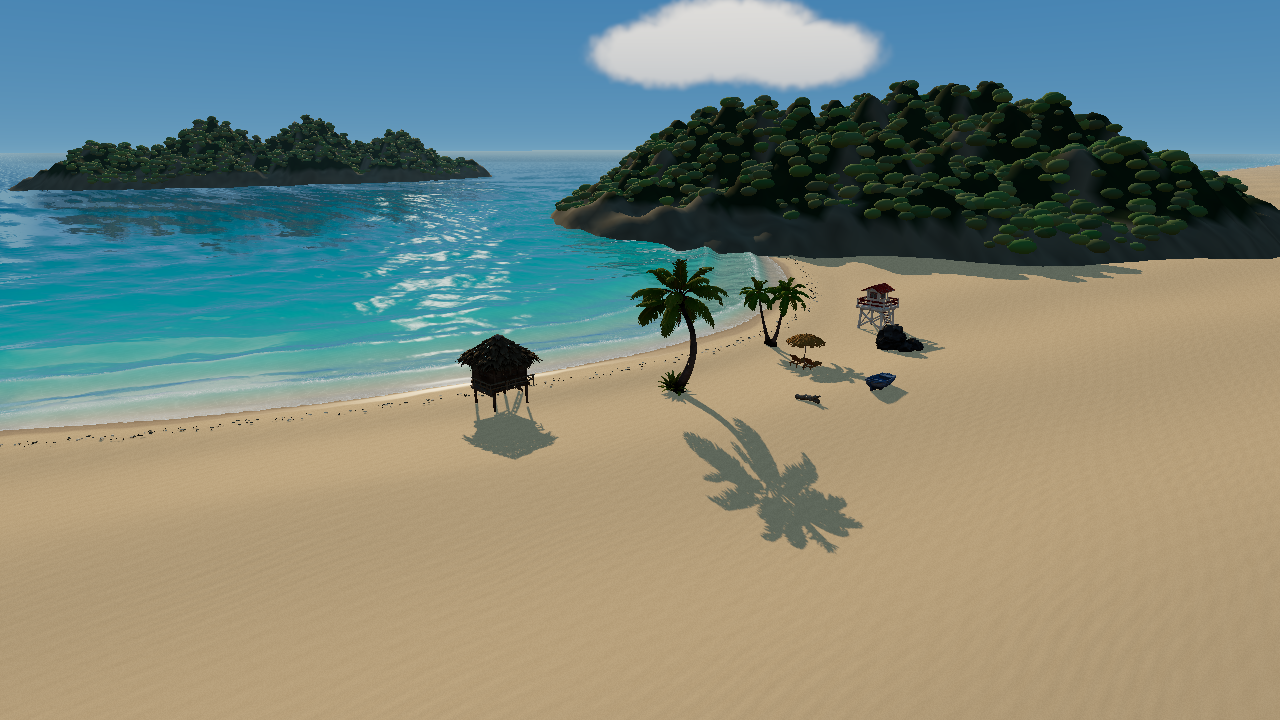
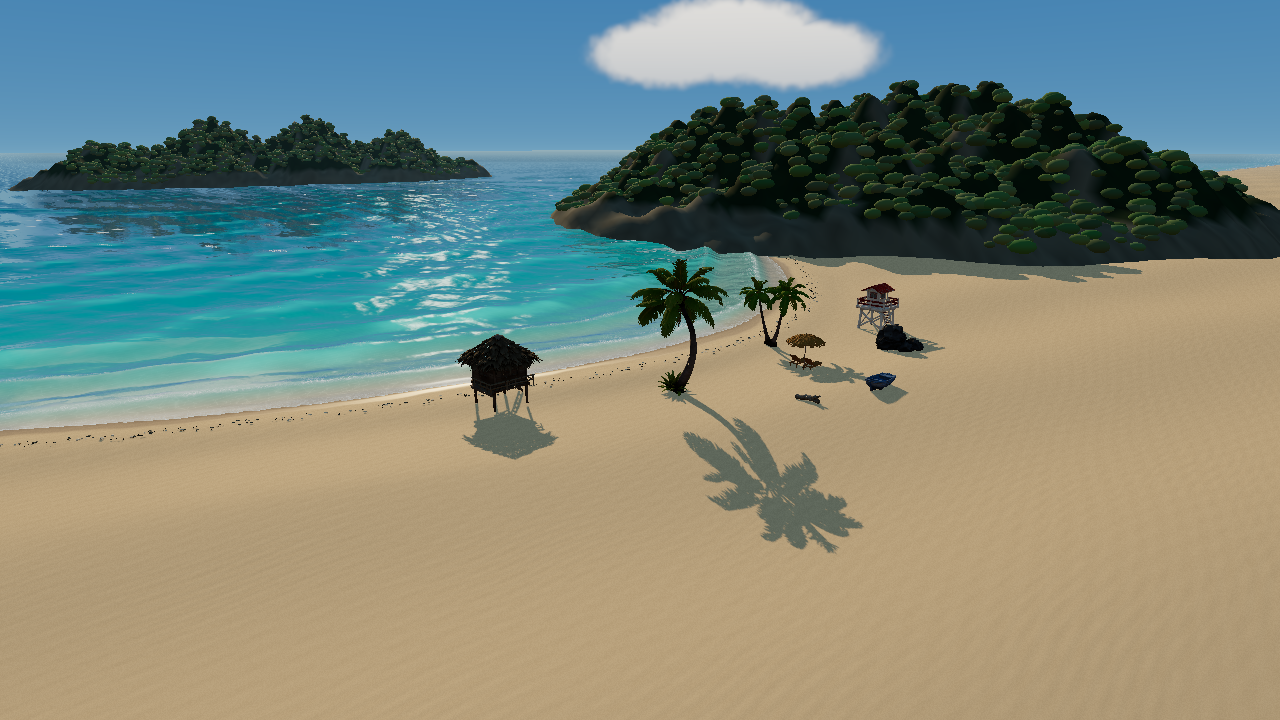
海浪細節：浪體逆光透出綠藍色、浪峰擠尖處分塊冒白浪（逐像素重算 Gerstner 波）；小船尾流在水面擴散成 V 形小波紋；槳葉水霧調淡；重拍三組固定鏡頭與遊戲回歸截圖
Claude-Session: https://claude.ai/code/session_01USRpqyJ3nNu4mbR3gC6di4

diff --git a/src/water.js b/src/water.js
@@ -81,6 +81,24 @@ void waterSurface(vec2 p,float t,out vec3 displaced,out vec3 waveNormal){
 }
 `;
 
+// Per-pixel wave state for shading: the offshore mesh rows are 10-16 m apart, so crests, whitecaps and the light
+// through them are evaluated from the same four Gerstner waves here, not interpolated from the vertices.
+// x: height of the swell (open water only), y: the Jacobian of the horizontal displacement (below 1 where the
+// surface is squeezed together at a crest; whitecaps form where it is lowest).
+const crestGLSL = `
+vec2 swellState(vec2 p,float t){
+ float coast=shore(p.x)-p.y;
+ float s=smoothstep(0.,16.,coast)*(.68+.32*smoothstep(15.,90.,coast))*(1.-smoothstep(100.,550.,coast))*(1.-smoothstep(140.,500.,abs(p.x)));
+ vec2 D[4];D[0]=normalize(vec2(.22,1.));D[1]=normalize(vec2(-.38,1.));D[2]=normalize(vec2(.72,.69));D[3]=normalize(vec2(-.81,.59));
+ vec4 A=vec4(.29,.16,.085,.045),L=vec4(19.,11.3,6.7,3.8),P=vec4(.5,2.4,4.1,1.1);
+ float h=0.,xx=0.,zz=0.,xz=0.;
+ for(int i=0;i<4;i++){float k=6.283185/L[i],f=k*dot(D[i],p)-sqrt(9.81*k)*t+P[i],sn=sin(f),qa=.62*A[i]*k*sn;
+  h+=A[i]*sn;xx-=qa*D[i].x*D[i].x;zz-=qa*D[i].y*D[i].y;xz-=qa*D[i].x*D[i].y;}
+ return vec2(h*s,mix(1.,(1.+xx)*(1.+zz)-xz*xz,s));
+}
+`;
+
+export const WAKE_RINGS=24;
 const grid={xs:null,ds:null};
 function waterGeometry() {
  // Preserve the terrain entirely. Only the water mesh follows the coast, with
@@ -107,6 +125,10 @@ export function createWater(sun) {
  const water=new Water(waterGeometry(),{textureWidth:512,textureHeight:512,sunDirection:sun,sunColor:0xfff4da,waterColor:0x087f9c,distortionScale:.55,fog:true});
  water.rotation.x=-Math.PI/2;water.frustumCulled=false;
  water.name='lagoon-water';
+ // Ripples behind the game's rowboat (set by src/game/wake.js): each entry is a point the stern passed (x, z, time,
+ // boat speed; 0 switches it off). A ring of small waves spreads from each; together they draw the V behind the boat (a kinematic wake:
+ // circles emitted along the path). Shading only: the surface itself does not move.
+ water.material.uniforms.wakeRings={value:Array.from({length:WAKE_RINGS},()=>new THREE.Vector4())};
  water.material.vertexShader=`
  uniform mat4 textureMatrix;uniform float time;
  varying vec4 mirrorCoord;varying vec4 worldPosition;
@@ -134,11 +156,13 @@ export function createWater(sun) {
  }`;
  water.material.fragmentShader=`
  uniform mat4 textureMatrix;uniform sampler2D mirrorSampler;uniform float time;uniform vec3 eye;uniform vec3 sunDirection;uniform vec3 sunColor;
+ uniform vec4 wakeRings[${WAKE_RINGS}];
  varying vec4 mirrorCoord;varying vec4 worldPosition;varying vec3 vWaveNormal;varying vec2 vWaterRest;
  #include <common>
  #include <fog_pars_fragment>
  #include <logdepthbuf_pars_fragment>
  ${coastalGLSL}
+ ${crestGLSL}
  vec2 fineSlope(vec2 p,float distanceToEye){
   mat2 r=mat2(.80,-.60,.60,.80),r2=mat2(.36,.933,-.933,.36);
   vec2 warp=vec2(waterNoise(p*.071+time*.025),waterNoise(p*.093-time*.019));
@@ -165,6 +189,13 @@ export function createWater(sun) {
   if(d>front+irregular)discard;
   vec3 toEye=eye-worldPosition.xyz;float distanceToEye=length(toEye);vec3 V=toEye/distanceToEye;
   vec2 small=fineSlope(worldPosition.xz,distanceToEye)*mix(.25,1.,smoothstep(-1.,6.,coast));
+  // Wake ripples: crests about 0.9 m apart; each ring runs out at a third of the boat's speed, so the rings
+  // together keep the Kelvin wake's ~19.5° V at any speed. Weaker as they spread and age.
+  vec2 rip=vec2(0.);
+  for(int i=0;i<${WAKE_RINGS};i++){vec4 r=wakeRings[i];if(r.w<=.3)continue;vec2 q=worldPosition.xz-r.xy;float dist=length(q),age=time-r.z;
+   float x=dist-min(.34*r.w,3.)*age;if(age<0.||abs(x)>2.||dist<.01)continue;
+   float env=clamp((r.w-.3)/2.5,0.,1.)*exp(-x*x*1.4)*exp(-age*.35)/(1.+.12*dist);rip+=q/dist*cos(x*7.)*.55*env;}
+  small+=rip;
   vec3 N=normalize(vWaveNormal+vec3(-small.x,0.,-small.y));
   N=mix(N,normalize(vec3(-small.x,1.,-small.y)),smoothstep(-.1,1.,d));
   float NoV=max(dot(N,V),.001),fresnel=.0204+.9796*pow(1.-NoV,5.);
@@ -199,7 +230,16 @@ export function createWater(sun) {
   vec3 sea=bottom*transmission+waterTint*(1.-transmission);
   float crestTint=smoothstep(.03,.32,worldPosition.y)*(1.-smoothstep(10.,35.,coast));
   sea+=vec3(.005,.038,.027)*crestTint*max(dot(V,-sunDirection),0.);
+  // Light through the swell: a wave's upper part is thin enough for sunlight to come through it green-blue, most
+  // when looking towards the sun (backlit crests), a little from any side.
+  vec2 swell=swellState(p,time);
+  float thin=smoothstep(-.12,.35,swell.x)*smoothstep(0.,6.,coast);
+  float backlit=pow(max(dot(normalize(vec3(-V.x,0.,-V.z)),normalize(vec3(sunDirection.x,0.,sunDirection.z))),0.),3.);
+  sea+=vec3(.03,.3,.23)*thin*thin*(.3+.7*backlit)*(1.-fresnel);
   vec3 color=mix(sea,reflected,clamp(fresnel,0.,.97));
+  // Seen from above the water shows mostly its own colour, so a ripple's slope would hardly show: the faces
+  // tilted towards the eye catch more sky and read lighter, the others darker.
+  color+=vec3(.05,.09,.1)*clamp(dot(rip,normalize(-V.xz+1e-4))*2.5,-1.,1.);
   vec3 H=normalize(V+sunDirection);
   float glitter=pow(max(dot(N,H),0.),420.);
   color+=sunColor*glitter*.85;
@@ -218,6 +258,15 @@ export function createWater(sun) {
   float leading=exp(-pow(edgeDistance/(.08+.10*waterNoise(p*5.)),2.));
   float sheet=(1.-smoothstep(.1,1.9,edgeDistance))*smoothstep(-1.3,.2,d);
   foam=max(foam,leading*(.18+.68*lace)+sheet*lace*.42);
+  // Whitecaps: where the swell's crest is squeezed tightest, in patches (not every crest breaks), with foam left
+  // behind to thin out for a moment (the same squeeze a little earlier, weaker).
+  // Patches are stretched along the crests (the main swell runs towards +z), so a breaking crest reads as a streak.
+  float squeeze=smoothstep(.9,.82,swell.y),earlier=smoothstep(.89,.82,swellState(p,time-.7).y);
+  float patches=smoothstep(.38,.65,waterNoise(vec2(p.x*.05,p.y*.16)+vec2(time*.04,-time*.03)));
+  float capLace=foamLace(p*.8+vec2(0.,time*.15)),far=smoothstep(60.,220.,distanceToEye);
+  float detail=mix(capLace,.5,far);
+  float whitecap=patches*(smoothstep(.15,.5,squeeze*detail)+earlier*smoothstep(.35,.75,detail)*.4)*smoothstep(6.,20.,coast);
+  foam=max(foam,whitecap*.85);
   vec3 foamColor=vec3(.88,.96,.94)*(.80+.24*max(dot(N,sunDirection),0.));
   color=mix(color,foamColor,clamp(foam,0.,.94));
   gl_FragColor=vec4(color,1.);

diff --git a/src/game/wake.js b/src/game/wake.js
@@ -1,6 +1,6 @@
 import * as T from 'three';
 import {groundHeight} from '../terrain.js';
-import {surfaceHeight} from '../water.js';
+import {surfaceHeight,WAKE_RINGS} from '../water.js';
 
 // Foam the rowboat leaves on the water: a wake behind the stern that widens, breaks up and fades, and a foam line
 // round the hull at the water line. The wake is built from stern samples taken while under way (world time, place,
@@ -82,6 +82,9 @@ export function createWake(scene){
    const ox=v.x+n.x*w,oz=v.z+n.z*w,j=RING+i;p[j*3]=ox;p[j*3+1]=surfaceHeight(ox,oz,t)+.02;p[j*3+2]=oz;uv[j*2]=1;uv[j*2+1]=0;f[j]=wet?fade*.6:0;});
   for(const k of ['position','uv','fade'])ring.geometry.attributes[k].needsUpdate=true;
  }
+ // The newest stern samples for the water shader's ripple rings (x, z, time, speed); the rest are switched off.
+ function rings(t,out){let k=0;for(let i=samples.length-1;i>=0&&k<WAKE_RINGS;i--){const s=samples[i];if(s.t>t+1e-6)continue;out[k++].set(s.x,s.z,s.t,s.speed);}
+  for(;k<out.length;k++)out[k].w=0;}
  function reset(){samples.length=0;head.t=-1e9;ring.visible=false;trail.geometry.setIndex([]);}
- return {root,trail,ring,record,update,setHull,hull,reset,RING,get samples(){return samples.length;}};
+ return {root,trail,ring,record,update,setHull,hull,rings,reset,RING,get samples(){return samples.length;}};
 }

diff --git a/src/game/splash.js b/src/game/splash.js
@@ -65,7 +65,7 @@ export function createSplash(scene){
     put(e.x+Math.cos(a)*spread0*h+vx*age,y,e.z+Math.sin(a)*spread0*h+vz*age,vx,vy,vz,(.014+.022*hash(i*5.3))*(.7+e.size),.7*Math.sqrt(fade));}
    // A bigger splash throws a little mist that drifts up and thins out.
    if(e.size>.2)for(let i=0;i<3;i++){const h=hash(i*9.1+e.seed),a=i*2.1+e.seed,k=Math.min(1,age/.6);if(k>=1)break;
-    put(e.x+Math.cos(a)*e.size*.6*k,e.y+.1+e.size*(.5+.4*h)*k,e.z+Math.sin(a)*e.size*.6*k,0,0,0,e.size*(.35+.7*k),.3*(1-k)*(1-k));}
+    put(e.x+Math.cos(a)*e.size*.6*k,e.y+.1+e.size*(.5+.4*h)*k,e.z+Math.sin(a)*e.size*.6*k,0,0,0,e.size*(.35+.7*k),.16*(1-k)*(1-k));}
   }
   geo.instanceCount=d;iPos.needsUpdate=iVel.needsUpdate=iSize.needsUpdate=true;
   for(let i=r;i<rings.length;i++)rings[i].visible=false;

diff --git a/src/game/index.js b/src/game/index.js
@@ -536,7 +536,7 @@ export async function createGame({scene,camera,renderer,water,config,explore:e,a
  }
  function update(dt,t){
   if(lagoon.isOpen){document.body.classList.remove('game-paused');return;}
-  sea.update(t);splash.update(t);wake.update(t);if(!vessel.visible)wake.ring.visible=false;
+  sea.update(t);splash.update(t);wake.update(t);wake.rings(t,water.material.uniforms.wakeRings.value);if(!vessel.visible)wake.ring.visible=false;
   if(e.group!==currentGroup&&!e.busy){currentGroup=e.group;if(mode==='rest')e.player.copy(restPoint());else if(mode==='tower')e.player.copy(anchors.lifeguard.surface.point);}
   document.body.classList.toggle('game-paused',running&&!e.active&&!completed&&mode!=='tidepool');
   const active=running&&e.active&&!e.busy&&!completed,simDt=active?dt:0;

diff --git a/NOTES.md b/NOTES.md
@@ -284,3 +284,4 @@ Open **http://localhost:5191/game.html** (also linked as **遊戲模式** on the
 - **推船下水（2026-10-21）**：在沙灘上的小船按 E，不再淡出直接傳送到離岸 9 m 的船上；船會從原本擺放的位置和角度開始，按住 W 從船尾推（手扶船尾上緣），船頭朝陸地的會先原地轉向，再沿著避開陽傘和漂流木的路線推下沙灘、涉水，水深到可以划（船中央地面低於 −0.75 m）時從船尾爬上船，三組約 14 秒。推的時候人腳和船頭在水裡會濺水花。A / D 微調方向，E 跳過直接上船。自動化模式（`?auto=1`）預設直接上船，`__GAME__.pushBoat=true` 才走推船流程，`verify-game` 有測。
 - **船尾航跡與吃水線泡沫（2026-10-21）**：參考一般遊戲做法（CapCôtier 的泡沫帶、Tidewater／Boat Attack 的航跡圖），新增 `src/game/wake.js`。划船時每 0.15 秒記下船尾位置，畫成一條貼在水面上的泡沫帶：兩側是船頭浪散開的兩條泡沫線，中間是划槳攪出的白沫，約以開爾文角（19.5°）往外張開（最快每秒 1.2 m），5.5 秒內碎成小塊後消失，碰到沙灘的部分不畫。船身吃水線一圈泡沫，船速越快船頭越寬。泡沫貼圖固定在水面上，不跟著船滑動。全部由取樣與時間算出，逐格錄影一致。`surfaceHeight()` 改為同一時間共用網格頂點的計算結果，每格多約 0.5 ms。前後對照：`video/wake_before_after.mp4`。
 - **水花水滴改版（2026-10-21）**：水滴從小圓球改成面向鏡頭、沿速度方向拉長的半透明貼片（看起來像飛濺的水痕），從槳葉整個寬度噴出；用力入水時多一團淡淡往上散的水霧；槳葉出水後 0.8 秒內一路滴水，落水處留下小水圈；小槳渦只帶幾顆水滴。水滴核心亮度調低，避免剛濺起時疊在一起被泛光放大成白球。
+- **海浪細節（2026-10-21）**：只改水面著色，不動水面幾何，CPU 的 `sampleWater()`／`surfaceHeight()` 不變。外海網格太粗，所以在 fragment shader 逐像素重算 4 道 Gerstner 波（`swellState()`）：浪體上半部透出綠藍色的光（逆光時最明顯），浪峰被擠得最尖的地方冒出白浪（看水平位移的 Jacobian，分塊出現，碎後留一點白沫）。這片海浪小，白浪很少，比較像平靜的潟湖。遊戲中小船把最近 24 個船尾位置傳給水面（`wakeRings`），每點以船速三分之一往外擴散一圈小波紋，疊起來形成約 19.5° 的 V 形尾流（運動學尾流的做法）；從上往下看反射很弱，所以波紋面向鏡頭的一側稍亮、背向的稍暗。三組共用，盲評分數與 REPORT 是之前的畫面。`verify-explore` 在機器高負載時手機頁面 30 秒內載不完會逾時，改動前的版本也一樣。

diff --git a/CLAUDE.md b/CLAUDE.md
@@ -85,6 +85,7 @@ There is no lint or unit-test setup. Verification means running the Playwright s
 - **Terrain and water are analytic and stateless.**
   - `src/terrain.js` `shore(x)` and `groundHeight(x,z)` are used by JS, by the shaders (`shoreGLSL`), by explore and game collision, and by the recorders.
   - `src/water.js` also exports CPU mirrors `sampleWater()` and `swashReach()`, which drive game buoyancy and footprints.
+  - Shading-only wave detail (since 2026-10-21, same for all groups; blind scores and REPORT predate it): `swellState()` in the water fragment shader re-evaluates the four Gerstner waves per pixel (the offshore mesh is too coarse), for light through the swell (green-blue, most when backlit) and whitecaps where the crest is squeezed tightest (Jacobian), in patches, with foam left behind for a moment. The game's rowboat feeds `wakeRings` (24 stern points: x, z, time, speed; `WAKE_RINGS`): each spreads a ring of small ripples at a third of the boat's speed, which together keep the Kelvin wake's V; shading only, the surface does not move, so the CPU mirrors are unchanged.
   - All animation must derive from one time value so offline rendering is deterministic.
 - **Determinism and automation hooks.** These are what the recorders and verifiers use; keep them working.
   - `window.__SCENE__` (`{scene, camera, renderer, water, …}`) and `window.__READY__`.
